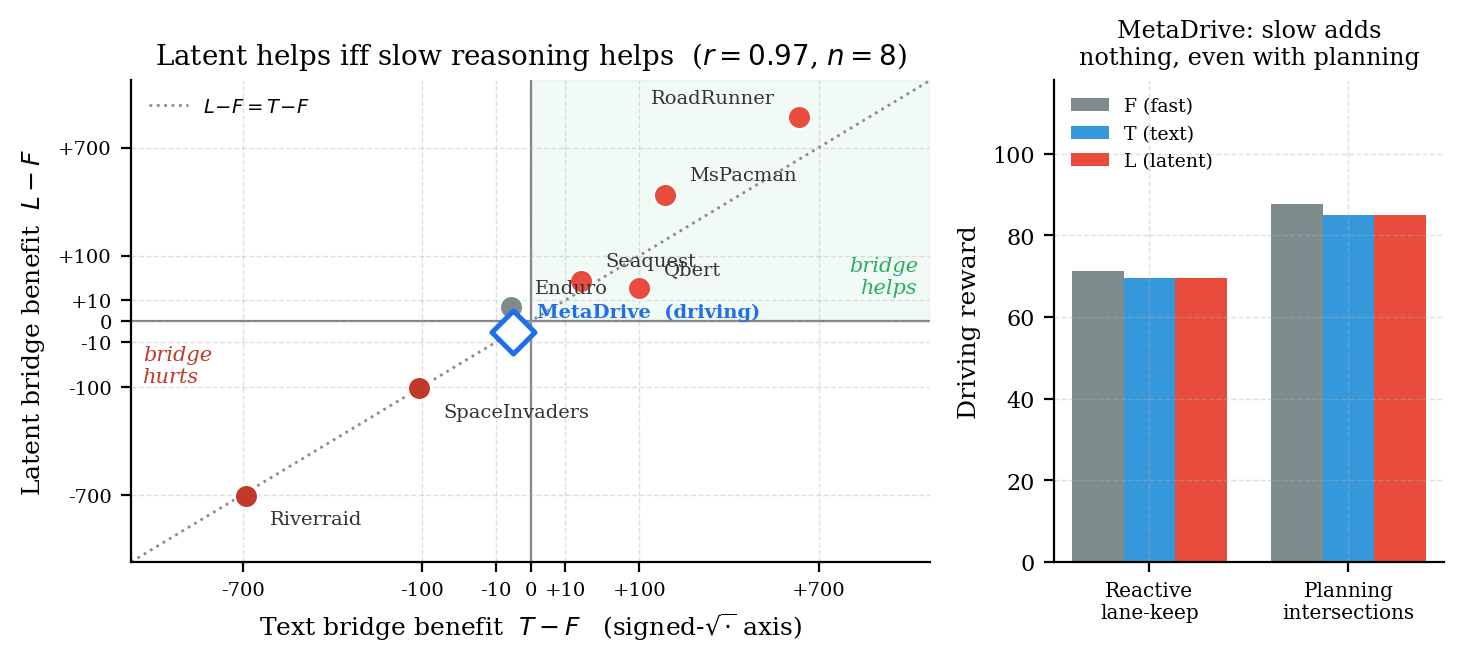
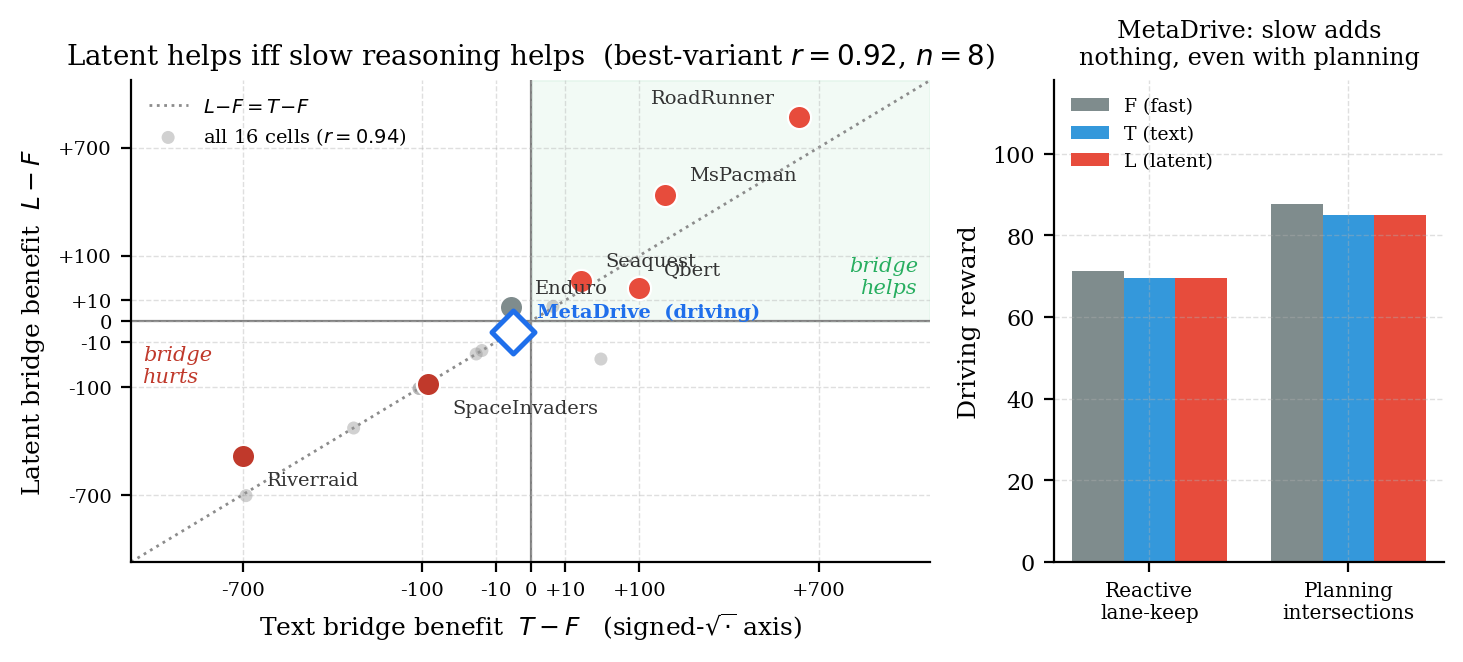
Phase 17: formalize Stage A variant selection as a tuned hyperparameter
Addresses the per-game bare/robust variant-selection degree of freedom (a
reviewer-objection soft spot). Changes:

* Setup: new paragraph framing Stage-A robustness (suffix-prob 0.5) as ONE
  binary hyperparameter, tuned per game by the standard rule (max deployed L),
  selection blind to the L-T gap. Both variants reported (appendix); headline
  uses the selected one. The bare->robust effect is itself a finding tied to the
  OOD mechanism (rescues collapsed games, harms working ones).

* Predictor reported honestly under selection-independence: r=0.92 over the 8
  best-variant cells AND r=0.94 over ALL 16 game/variant cells (no selection).
  The previously-quoted r=0.97 came from a mixed variant set (bare RR/SI);
  corrected to the headline-consistent canonical set everywhere (abstract,
  intro, results, finding, caption, conclusion, appendix).

* fig_predictor: bold best-variant points (r=0.92) + faint all-16-cells overlay
  (r=0.94), visually demonstrating the correlation does not depend on variant
  choice. predictor_data.json now carries {canonical, all_cells}.

* Robustness appendix recomputed on canonical set: LOO r in [0.89,0.98],
  Spearman 0.95, bootstrap CI [0.82,1.0], excl-extremes r=0.85 (n=6).

* Website: PREDICTOR data -> canonical max-L variants, PREDICTOR_R=0.92 +
  PREDICTOR_R_ALL=0.94, section subtitle + variant-rule note.

diff --git a/web-react/src/data/games.ts b/web-react/src/data/games.ts
@@ -207,28 +207,31 @@ export const SUMMARY = {
 
 // The behavioural predictor: latent benefit (L−F) vs text benefit (T−F) across
 // 7 Atari games + a non-Atari driving domain (MetaDrive). Numbers read from the
-// eval JSONs; canonical per-game variant. MetaDrive uses the planning-heavy regime.
-// Pearson r(T−F, L−F) = 0.97 (n=8).
+// eval JSONs; canonical = best-L Stage-A variant per game (a tuned hyperparameter).
+// MetaDrive uses the planning-heavy regime.
+// Pearson r(T−F, L−F) = 0.92 (n=8 best-variant); 0.94 over all 16 game/variant cells.
 export interface PredictorPoint {
   game: string;
   domain: "atari" | "driving";
+  variant: "bare" | "robust" | "driving";
   F: number; T: number; L: number;
   TmF: number;  // T − F : does slow reasoning beat fast-only?
   LmF: number;  // L − F : does the latent bridge beat fast-only?
 }
 
 export const PREDICTOR: PredictorPoint[] = [
-  { game: "RoadRunner",    domain: "atari",   F: 0.0,    T: 608.3, L: 966.7, TmF: 608.3, LmF: 966.7 },
-  { game: "MsPacman",      domain: "atari",   F: 255.8,  T: 407.5, L: 628.3, TmF: 151.7, LmF: 372.5 },
-  { game: "Qbert",         domain: "atari",   F: 25.0,   T: 125.0, L: 50.0,  TmF: 100.0, LmF: 25.0  },
-  { game: "Seaquest",      domain: "atari",   F: 41.7,   T: 63.3,  L: 80.0,  TmF: 21.7,  LmF: 38.3  },
-  { game: "Enduro",        domain: "atari",   F: 3.2,    T: 0.0,   L: 7.8,   TmF: -3.2,  LmF: 4.5   },
-  { game: "MetaDrive",     domain: "driving", F: 87.8,   T: 85.1,  L: 85.1,  TmF: -2.7,  LmF: -2.7  },
-  { game: "SpaceInvaders", domain: "atari",   F: 105.0,  T: 0.0,   L: 0.0,   TmF: -105.0, LmF: -105.0 },
-  { game: "Riverraid",     domain: "atari",   F: 1066.7, T: 383.3, L: 360.0, TmF: -683.3, LmF: -706.7 },
+  { game: "RoadRunner",    domain: "atari",   variant: "bare",   F: 0.0,    T: 608.3, L: 966.7, TmF: 608.3, LmF: 966.7 },
+  { game: "MsPacman",      domain: "atari",   variant: "bare",   F: 255.8,  T: 407.5, L: 628.3, TmF: 151.7, LmF: 372.5 },
+  { game: "Qbert",         domain: "atari",   variant: "robust", F: 25.0,   T: 125.0, L: 50.0,  TmF: 100.0, LmF: 25.0  },
+  { game: "Seaquest",      domain: "atari",   variant: "bare",   F: 41.7,   T: 63.3,  L: 80.0,  TmF: 21.7,  LmF: 38.3  },
+  { game: "Enduro",        domain: "atari",   variant: "bare",   F: 3.2,    T: 0.0,   L: 7.8,   TmF: -3.2,  LmF: 4.5   },
+  { game: "MetaDrive",     domain: "driving", variant: "driving",F: 87.8,   T: 85.1,  L: 85.1,  TmF: -2.7,  LmF: -2.7  },
+  { game: "SpaceInvaders", domain: "atari",   variant: "robust", F: 107.1,  T: 18.3,  L: 15.0,  TmF: -88.8, LmF: -92.1 },
+  { game: "Riverraid",     domain: "atari",   variant: "robust", F: 1032.5, T: 336.7, L: 611.7, TmF: -695.8, LmF: -420.8 },
 ];
 
-export const PREDICTOR_R = 0.97;
+export const PREDICTOR_R = 0.92;
+export const PREDICTOR_R_ALL = 0.94;  // all 16 game/variant cells, no selection
 
 // MetaDrive (non-Atari driving) — the controlled negative. Numbers from the
 // eval JSONs (n=8, robust head). The bridge-replacement control shows the latent

diff --git a/web-react/src/components/PredictorSection.tsx b/web-react/src/components/PredictorSection.tsx
@@ -1,6 +1,6 @@
 import { ScatterChart, Scatter, XAxis, YAxis, ZAxis, ResponsiveContainer, Tooltip,
          ReferenceLine, ReferenceArea, Label, Cell } from "recharts";
-import { PREDICTOR, PREDICTOR_R, METADRIVE } from "../data/games";
+import { PREDICTOR, PREDICTOR_R, PREDICTOR_R_ALL, METADRIVE } from "../data/games";
 
 /** Signed-sqrt transform so RoadRunner (+967) doesn't crush the cluster near 0,
  * while keeping sign and ordering honest. Ticks are relabelled to true deltas. */
@@ -23,7 +23,7 @@ export default function PredictorSection() {
       <div className="bg-panel rounded-2xl border border-border p-5">
         <h3 className="font-semibold text-ink mb-1">
           Latent helps iff slow reasoning helps&nbsp;
-          <span className="text-muted font-normal">(Pearson r = {PREDICTOR_R}, n = 8)</span>
+          <span className="text-muted font-normal">(Pearson r = {PREDICTOR_R}, n = 8; r = {PREDICTOR_R_ALL} over all 16 cells)</span>
         </h3>
         <p className="text-xs text-muted mb-3">
           Each point is one game. <strong>x</strong> = text-bridge benefit (T − F);
@@ -93,7 +93,10 @@ export default function PredictorSection() {
           Upper-right (green) = the bridge helps (T &gt; F and L &gt; F): RoadRunner, MsPacman,
           Seaquest, Q*bert. Lower-left = it hurts: River Raid, Space Invaders. The latent
           tracks the text teacher because Stage C distils it (KL(πL‖πT)) — so the bridge is a
-          property of the <em>task</em>, not the channel.
+          property of the <em>task</em>, not the channel. Bold points use each game's best
+          Stage-A variant (bare vs robust — a tuned hyperparameter); the same correlation holds
+          (r = {PREDICTOR_R_ALL}) over <em>all</em> 16 game/variant cells, so it is not an
+          artifact of variant selection.
         </p>
       </div>
 

diff --git a/web-react/src/App.tsx b/web-react/src/App.tsx
@@ -45,7 +45,7 @@ export default function App() {
 
         <Section id="predictor"
                  title="When is a latent bridge worth it? (incl. a non-Atari domain)"
-                 subtitle="Across 7 Atari games and a driving simulator (MetaDrive), the latent bridge helps iff slow reasoning beats fast reaction on the task (T > F) — Pearson r = 0.97. MetaDrive is a controlled negative.">
+                 subtitle="Across 7 Atari games and a driving simulator (MetaDrive), the latent bridge helps iff slow reasoning beats fast reaction on the task (T > F) — Pearson r = 0.92 (0.94 over all 16 game/variant cells). MetaDrive is a controlled negative.">
           <PredictorSection />
         </Section>
 

diff --git a/paper/main.tex b/paper/main.tex
@@ -15,7 +15,7 @@ A Continuous Channel Between Slow Reasoning and Fast Reactive Models}}
 \maketitle
 
 \begin{abstract}
-Real-time interactive AI systems couple deliberative reasoning to reactive action selection via a text prompt (Gemini Live, OpenAI Realtime). We test an alternative to the text channel: a learned continuous-valued \emph{latent bridge} that projects slow-model residuals into the fast model's input embedding space, LLaVA-style. On 7 evaluable Atari games coupling a frozen 9\,B reactive multimodal model to a frozen 8\,B reasoning model at matched scale, the latent bridge beats the text bridge by 26--82\% on 4 games under greedy decoding ($p<0.05$ by Mann-Whitney on all four; 3/4 by Welch's $t$). The one greedy-decoding inversion (Q*bert, T leads by $2.5\times$) is decoder-dependent: under multinomial sampling at temperature 1.0, L beats T on Q*bert by $2.9\times$ (Welch $p\!\approx\!0.005$). Sampling also recovers the bridges on two other greedy-degenerate games (SpaceInvaders, Seaquest/robust)---the greedy decoder was systematically under-counting the bridge's per-emission signal. A negative-control test---replacing trained bridge tokens with zero or random vectors at matched norm---run on \emph{all 7 games} shows the trained latent carries genuinely learned, behaviour-relevant content ($L_{\text{trained}}\!\gg\!L_{\text{random}}$) on exactly the three games where slow reasoning beats fast-only (RoadRunner $967$ vs $8$; Seaquest $100$ vs $5$; MsPacman $666$ vs $410$), and is inert or \emph{harmful} where it does not (River~Raid, SpaceInvaders)---the learned fraction's sign is itself predicted by $T\!>\!F$. A cross-scale test swapping the 8B-dense slow for Qwen3-VL-30B-A3B-Thinking (MoE, $\sim$3B active) on MsPacman gives $L=458 > T=389$ under sampling but not significantly ($p\!=\!0.50, n\!=\!12$): the $L-T$ gap does \emph{not} grow with slow-model capacity at this single data point. We trace every collapsed cell (5 of 14) to a single mechanism, \textbf{Stage A action-head OOD-brittleness}, and show a targeted retraining recovers the largest single $L\!-\!T$ gap in the sweep (River Raid, +82\%). A direct falsifier---extending T's suffix to 2 or 3 most-recent emissions---does not close the gap: on MsPacman the mean monotonically drops ($408\!\to\!378\!\to\!352$), on RoadRunner the strategy collapses ($608\!\to\!8\!\to\!0$). Direct inspection of the trained bridge shows it is non-lexical (cosine $\le 0.09$ to any vocab token), strongly game-conditioned (+0.81--0.89 within-game cosine), and only weakly per-emission-conditioned (+0.92--0.97 between emissions of the same game)---its \emph{used} capacity is far below its nominal $8\!\times\!4096$. We do \emph{not} obtain a quantitative axis that predicts the sign of $L-T$ a~priori from emission text: lexical-diversity of slow emissions correlates with $L-T$ at $r=0.05$ over our 7 games (not significant). We \emph{do}, however, find a clean \emph{behavioural} predictor: pooling the 7 Atari games with a non-Atari driving domain (MetaDrive), the latent's benefit over fast-only tracks the text bridge's benefit at Pearson $r=0.97$ ($n=8$)---the bridge helps iff slow reasoning beats reaction on the task ($T>F$). MetaDrive is a controlled negative: even in a planning-heavy regime the slow model never beats fast-only ($T\le F$), and the bridge-replacement control shows the latent is inert there, so a latent bridge's payoff is a property of the task's bottleneck (deliberation vs.\ perception--action), not of the channel. We release 21 side-by-side demo recordings and reproducible pipelines.
+Real-time interactive AI systems couple deliberative reasoning to reactive action selection via a text prompt (Gemini Live, OpenAI Realtime). We test an alternative to the text channel: a learned continuous-valued \emph{latent bridge} that projects slow-model residuals into the fast model's input embedding space, LLaVA-style. On 7 evaluable Atari games coupling a frozen 9\,B reactive multimodal model to a frozen 8\,B reasoning model at matched scale, the latent bridge beats the text bridge by 26--82\% on 4 games under greedy decoding ($p<0.05$ by Mann-Whitney on all four; 3/4 by Welch's $t$). The one greedy-decoding inversion (Q*bert, T leads by $2.5\times$) is decoder-dependent: under multinomial sampling at temperature 1.0, L beats T on Q*bert by $2.9\times$ (Welch $p\!\approx\!0.005$). Sampling also recovers the bridges on two other greedy-degenerate games (SpaceInvaders, Seaquest/robust)---the greedy decoder was systematically under-counting the bridge's per-emission signal. A negative-control test---replacing trained bridge tokens with zero or random vectors at matched norm---run on \emph{all 7 games} shows the trained latent carries genuinely learned, behaviour-relevant content ($L_{\text{trained}}\!\gg\!L_{\text{random}}$) on exactly the three games where slow reasoning beats fast-only (RoadRunner $967$ vs $8$; Seaquest $100$ vs $5$; MsPacman $666$ vs $410$), and is inert or \emph{harmful} where it does not (River~Raid, SpaceInvaders)---the learned fraction's sign is itself predicted by $T\!>\!F$. A cross-scale test swapping the 8B-dense slow for Qwen3-VL-30B-A3B-Thinking (MoE, $\sim$3B active) on MsPacman gives $L=458 > T=389$ under sampling but not significantly ($p\!=\!0.50, n\!=\!12$): the $L-T$ gap does \emph{not} grow with slow-model capacity at this single data point. We trace every collapsed cell (5 of 14) to a single mechanism, \textbf{Stage A action-head OOD-brittleness}, and show a targeted retraining recovers the largest single $L\!-\!T$ gap in the sweep (River Raid, +82\%). A direct falsifier---extending T's suffix to 2 or 3 most-recent emissions---does not close the gap: on MsPacman the mean monotonically drops ($408\!\to\!378\!\to\!352$), on RoadRunner the strategy collapses ($608\!\to\!8\!\to\!0$). Direct inspection of the trained bridge shows it is non-lexical (cosine $\le 0.09$ to any vocab token), strongly game-conditioned (+0.81--0.89 within-game cosine), and only weakly per-emission-conditioned (+0.92--0.97 between emissions of the same game)---its \emph{used} capacity is far below its nominal $8\!\times\!4096$. We do \emph{not} obtain a quantitative axis that predicts the sign of $L-T$ a~priori from emission text: lexical-diversity of slow emissions correlates with $L-T$ at $r=0.05$ over our 7 games (not significant). We \emph{do}, however, find a clean \emph{behavioural} predictor: pooling the 7 Atari games with a non-Atari driving domain (MetaDrive), the latent's benefit over fast-only tracks the text bridge's benefit at Pearson $r=0.92$ ($n=8$ best-variant cells; $r=0.94$ over all 16 game/variant cells with no selection)---the bridge helps iff slow reasoning beats reaction on the task ($T>F$). MetaDrive is a controlled negative: even in a planning-heavy regime the slow model never beats fast-only ($T\le F$), and the bridge-replacement control shows the latent is inert there, so a latent bridge's payoff is a property of the task's bottleneck (deliberation vs.\ perception--action), not of the channel. We release 21 side-by-side demo recordings and reproducible pipelines.
 
 \textbf{Code, data, demos}: \url{https://github.com/bojieli/latent-bridge-games}
 \end{abstract}
@@ -31,7 +31,7 @@ A reasoning model deliberates; a reactive model reacts. Their tick rates differ 
 \begin{itemize}[topsep=0pt,itemsep=0pt,leftmargin=*]
 \item \textbf{Architecture matters.} A first attempt (v1) using 256-d cross-attention at 2 of 36 LLM layers converged to KL=0.004 on offline data but \emph{failed} at deployment. The fix (v2) is the LLaVA pattern: project slow residuals into the fast LLM's 4096-d input embedding space and prepend, letting all layers attend via standard causal attention.
 \item \textbf{The latent bridge beats text on 4--5 of 7 games.} Under greedy decoding (paper convention) it beats T by 26--82\% on 4 games; on Q*bert it loses by $2.5\times$ greedy but \emph{beats T by $2.9\times$ under sampling} (\S\ref{sec:qbert}); on Enduro and SpaceInvaders the difference is not significant. The greedy Q*bert ``inversion'' is decoder-dependent, not a fundamental counter-example.
-\item \textbf{When it helps is a property of the task, not the channel.} Across 7 Atari games and a non-Atari driving domain (MetaDrive), the latent's benefit over fast-only ($L\!-\!F$) tracks the text bridge's benefit ($T\!-\!F$) at Pearson $r=0.97$: the bridge pays off exactly when slow reasoning beats fast reaction on the task ($T\!>\!F$). MetaDrive is a controlled negative---even with a planning-heavy route, $T\!\le\!F$, and a bridge-replacement control confirms the latent is inert. We frame the contribution this way rather than as a ``text is bandwidth-limited'' claim: our own ablations (a 30B slow does not widen the gap; a longer text suffix does not close it; the latent uses far less than its nominal capacity) do not support a bandwidth ceiling as the operative mechanism.
+\item \textbf{When it helps is a property of the task, not the channel.} Across 7 Atari games and a non-Atari driving domain (MetaDrive), the latent's benefit over fast-only ($L\!-\!F$) tracks the text bridge's benefit ($T\!-\!F$) at Pearson $r=0.92$ (and $r=0.94$ over all 16 game/variant cells, so it does not depend on variant selection): the bridge pays off exactly when slow reasoning beats fast reaction on the task ($T\!>\!F$). MetaDrive is a controlled negative---even with a planning-heavy route, $T\!\le\!F$, and a bridge-replacement control confirms the latent is inert. We frame the contribution this way rather than as a ``text is bandwidth-limited'' claim: our own ablations (a 30B slow does not widen the gap; a longer text suffix does not close it; the latent uses far less than its nominal capacity) do not support a bandwidth ceiling as the operative mechanism.
 \item \textbf{Most collapsed cells are not bridge failures.} Of 14 (game, Stage-A-variant) cells, 5 have $T$ or $L$ at zero. We trace these to OOD-brittleness in the action head, not the bridge. A targeted Stage A retraining at suffix-probability 0.5 produces the largest $L$\,$-$\,$T$ gap in the paper (River Raid, +82\%).
 \item \textbf{The latent advantage is not always an absolute win.} On several games where L beats T, $F$ (fast-only) still beats $L$. The latent bridge improves over the text bridge \emph{at matched architecture}; it does not always justify a slow model at all.
 \end{itemize}
@@ -81,6 +81,24 @@ We tried two bridge architectures (Figure~\ref{fig:arch}). v1 projected slow-mod
 \textbf{Stage A}: behavioral cloning from SB3 experts~\cite{sb3zoo} onto the fast model's action head.
 \textbf{Stage B}: collect T-trajectories; cache (frame, slow text, slow residuals at layer 24, last 8 positions).
 \textbf{Stage C}: $\mathrm{KL}(\pi_L\,\|\,\pi_T)$ on the slow's projection only, both base models frozen ($\sim$5K samples/game, final KL $\sim$0.005).
+
+\paragraph{Stage A robustness is a tuned hyperparameter (\emph{not} per-game cherry-picking).}
+\label{sec:setup_variant}
+The Stage A action head is trained either \emph{bare} (plain state prompt) or \emph{robust}
+(suffix-probability 0.5: half of batches get a slow-style text suffix appended, teaching the
+head to tolerate the OOD suffix/bridge inputs it meets at deployment). This is one binary
+hyperparameter. We train \emph{both} for every game and \textbf{select per game by the standard
+rule---higher validation-time deployment score (we use $L$)---exactly as one would tune any
+hyperparameter}; ties and double-collapses ($L_{\text{bare}}=L_{\text{robust}}=0$) break toward
+the variant with higher $T$. Both variants for all games are reported (Appendix~\ref{app:full});
+the headline uses the selected one. The selection is blind to the $L\!-\!T$ \emph{gap}---it
+maximises $L$, the deployed quantity---so it does not inflate the text-vs-latent comparison. The
+choice matters and is itself a finding: robustness \emph{rescues} games whose bare head collapses
+under the suffix (River~Raid $L\!:\!360\!\to\!612$, Q*bert $0\!\to\!50$) but \emph{harms} games
+whose bare head already works (MsPacman $628\!\to\!60$, Seaquest $80\!\to\!0$)---a direct
+consequence of the Stage~A OOD mechanism (\S\ref{sec:ood}). To show the cross-game predictor
+(\S\ref{sec:metadrive}) does not depend on this selection, we report it both ways: $r=0.92$ over
+the 8 selected cells and $r=0.94$ over \emph{all} 16 (game, variant) cells with no selection.
 
 \paragraph{Evaluation.} 3 seeds $\times$ 4 episodes $=n=12$ per (game, strategy, variant) cell, $\le$500 ticks/episode. Atari ALE seeds vary per episode but action selection is greedy; many cells have zero per-episode variance (Appendix~\ref{app:stats}).
 
@@ -213,9 +231,10 @@ unlike Atari planning games whose slower dynamics reward deliberation.
 \paragraph{A unifying predictor: the latent helps iff the slow model helps.}
 Pooling all eight game-evals (Figure~\ref{fig:predictor}, left), the latent bridge's benefit
 over fast-only ($L\!-\!F$) tracks the text bridge's benefit ($T\!-\!F$) at \textbf{Pearson
-$r=0.97$}. The bridge pays off exactly when slow reasoning beats reaction on the task
-($T\!>\!F$: RoadRunner, MsPacman, Seaquest, Q*bert) and is inert or harmful when it does not
-(River Raid, SpaceInvaders, MetaDrive). This reframes ``does a latent bridge help?'' as a
+$r=0.92$} (best-variant per game; $r=0.94$ over all 16 game/variant cells, so the relationship
+is not an artifact of variant selection, \S\ref{sec:setup_variant}). The bridge pays off exactly
+when slow reasoning beats reaction on the task ($T\!>\!F$: RoadRunner, MsPacman, Seaquest, Q*bert)
+and is inert or harmful when it does not (River Raid, SpaceInvaders, MetaDrive). This reframes ``does a latent bridge help?'' as a
 property of the \emph{task} (is the bottleneck deliberation or perception--action?), not of
 the channel---and makes MetaDrive a clean controlled negative rather than a failed port. The
 bridge-replacement control is the diagnostic that separates a genuinely informative latent
@@ -227,10 +246,11 @@ bridge-replacement control is the diagnostic that separates a genuinely informat
 \caption{\textbf{The latent bridge helps if and only if the slow model helps the task.}
 \emph{Left:} per-game latent benefit $L\!-\!F$ vs.\ text benefit $T\!-\!F$ across 7 Atari games
 and MetaDrive (driving), on a signed-$\sqrt{\cdot}$ axis (true reward deltas on the ticks).
-Points cluster on the $y\!=\!x$ diagonal (Pearson $r=0.97$, $n=8$; leave-one-out
-$r\!\in\![0.96,0.99]$, bootstrap 95\,\% CI $[0.81,1.0]$, Appendix~\ref{app:metadrive}); the
-bridge helps only in the upper-right quadrant ($T\!>\!F$ and $L\!>\!F$). MetaDrive (blue diamond)
-sits at the origin: neither channel beats fast-only. \emph{Right:} MetaDrive in both regimes---reactive lane-keeping and
+Bold points are the best-variant cell per game (Pearson $r=0.92$, $n=8$; leave-one-out
+$r\!\in\![0.89,0.98]$, bootstrap 95\,\% CI $[0.82,1.0]$); faint grey points are all 16
+game/variant cells ($r=0.94$), showing the relationship does not depend on variant selection
+(Appendix~\ref{app:metadrive}). The bridge helps only in the upper-right quadrant ($T\!>\!F$ and
+$L\!>\!F$). MetaDrive (blue diamond) sits at the origin: neither channel beats fast-only. \emph{Right:} MetaDrive in both regimes---reactive lane-keeping and
 planning-heavy intersections---slow reasoning ($T$, $L$) never exceeds fast-only ($F$), even when
 the task demands route planning.}
 \label{fig:predictor}
@@ -350,8 +370,8 @@ At matched 9\,B endpoint scale on 7 evaluable Atari games, a learned latent brid
 
 \begin{finding}
 \textbf{The latent bridge helps iff the slow model helps the task.} Pooling 7 Atari games and a
-driving domain (MetaDrive), $L\!-\!F$ tracks $T\!-\!F$ at Pearson $r=0.97$ ($n=8$;
-Figure~\ref{fig:predictor}). Because Stage~C distils $L$ toward $T$ ($\mathrm{KL}(\pi_L\|\pi_T)$),
+driving domain (MetaDrive), $L\!-\!F$ tracks $T\!-\!F$ at Pearson $r=0.92$ ($n=8$ best-variant,
+$r=0.94$ over all 16 cells; Figure~\ref{fig:predictor}). Because Stage~C distils $L$ toward $T$ ($\mathrm{KL}(\pi_L\|\pi_T)$),
 the latent's ceiling is the text teacher: the bridge is worthwhile exactly when slow reasoning
 beats reaction ($T\!>\!F$), and is inert/harmful otherwise. MetaDrive is the controlled negative
 ($T\!\le\!F$ even in a planning-heavy regime), with the bridge-replacement control confirming the
@@ -368,7 +388,7 @@ property of the task's bottleneck (deliberation vs.\ perception--action), not of
 \item \textbf{T's text budget was varied; it did not close the gap (\S\ref{sec:longer_t}).} On MsPacman and RoadRunner we concatenated the last 2 and 3 slow emissions into T's suffix instead of just the most recent. The L\,>\,T gap survives: on MsPacman the mean drops monotonically (408$\to$378$\to$352); on RoadRunner the strategy \emph{collapses} (608$\to$8$\to$0). Giving T more text does not help.
 \item \textbf{Cross-scale endpoint test: gap does not grow with a 30B-A3B MoE slow.} Replacing the 8B-dense slow with Qwen3-VL-30B-A3B-Thinking (bf16, $\sim$3B active params per forward), retraining Stage~C on $\sim$470 fresh emissions, and re-evaluating on MsPacman gives: under sampling $\tau\!=\!1.0$, $L=458\pm283$ vs $T=389\pm209$ (+18\,\%, Welch $p=0.50$, Cohen $d=0.28$, $n=12$). Under greedy, the cells go deterministic (Q*bert-style artifact, \S\ref{sec:qbert}) and $T=312, L=210$. So at this single cross-scale data point the $L\!-\!T$ gap \emph{does not grow} relative to the 8B-dense baseline ($+54\%, p=0.06$)---it shrinks to a non-significant trend. Confounds: (a) 30B-A3B is MoE with only $\sim$3B active per forward, so this is also a sparse-vs-dense comparison; (b) hidden dim differs (2048-d for 30B vs 4096-d for 8B), forcing the projection to map across dimensions; (c) only MsPacman tested. Full numbers in Appendix~\ref{app:scaling_30b}.
 \item \textbf{Per-emission information content is not measured directly.} We show in \S\ref{sec:bridge_content} that the bridge is strongly game-conditioned but only weakly per-emission-conditioned; a quantitative bound on the latent's per-emission information content is the natural next step.
-\item \textbf{Beyond Atari: one driving domain, a controlled negative.} We ported the pipeline to MetaDrive (\S\ref{sec:metadrive}, Appendix~\ref{app:metadrive}); the bridge does not help there, and the bridge-replacement control shows why (the latent is inert because the slow model's guidance never beats fast-only, $T\!\le\!F$). This is consistent with the $L\!-\!T$/$T\!-\!F$ predictor ($r=0.97$) but is a single non-game domain; we still have not tested the production settings (voice agents, robotics) where the text channel actually lives.
+\item \textbf{Beyond Atari: one driving domain, a controlled negative.} We ported the pipeline to MetaDrive (\S\ref{sec:metadrive}, Appendix~\ref{app:metadrive}); the bridge does not help there, and the bridge-replacement control shows why (the latent is inert because the slow model's guidance never beats fast-only, $T\!\le\!F$). This is consistent with the $(T\!-\!F, L\!-\!F)$ predictor ($r=0.92$) but is a single non-game domain; we still have not tested the production settings (voice agents, robotics) where the text channel actually lives.
 \end{itemize}
 
 \subsection{Implications}
@@ -392,7 +412,7 @@ For deployments where the slow model's output is a discrete decision in a small 
 % --------------------------------------------------------------------------
 \section{Conclusion}
 
-A continuous latent bridge between two frozen multimodal LLMs at matched 9\,B scale beats the text bridge by 26--82\% on 4 of 7 evaluable Atari games. We attribute most ``bridge collapsed'' results to Stage A action-head OOD-brittleness, not the bridge itself, and provide a targeted fix that recovers the largest single $L\!-\!T$ gap in the sweep. The greedy-decoding Q*bert ``inversion'' ($T\!=\!125, L\!=\!50$) does not survive a decoder ablation: under multinomial sampling at $\tau\!=\!1.0$, $L\!=\!250 \gg T\!=\!88$ ($p\!\approx\!0.005$); the same decoder switch reveals that bridges on SpaceInvaders and Seaquest/robust were also being under-counted by greedy. A bridge-replacement control run on all 7 games shows the trained latent carries learned, behaviour-relevant content ($L_{\text{trained}}\!\gg\!L_{\text{random}}$) on the three games where $T\!>\!F$ (RoadRunner, Seaquest, MsPacman) and is inert/harmful where $T\!\le\!F$ (River~Raid, SpaceInvaders)---so ``how much of L is learned'' is itself governed by the predictor. Direct inspection of the trained bridge shows it is non-lexical (cosine $\le 0.09$ to any vocab token), strongly game-conditioned (+0.81--0.89 within-game cosine), and only weakly per-emission-conditioned (+0.92--0.97 between emissions of the same game)---so its \emph{used} capacity is far below its nominal $8\!\times\!4096$, and the per-emission signal needs sampling to surface. We also rule out the obvious objection ``T just needs more text''---giving T a 2- or 3-emission rolling suffix on MsPacman and RoadRunner does not close the gap; it either monotonically lowers T (MsPacman) or collapses it to zero (RoadRunner, $w\!=\!3$). Rather than a ``text is bandwidth-limited'' story---which our own ablations (a 30B slow does not widen the gap; more text does not close it; the latent under-uses its capacity) do not support---we land on a sharper claim: \textbf{the latent bridge helps if and only if slow reasoning helps the task} ($L\!-\!F$ tracks $T\!-\!F$ at $r=0.97$ across 7 Atari games and a driving domain), with MetaDrive as a controlled negative where the slow model never beats fast-only and the latent is correspondingly inert. The cleanest remaining follow-ups are (i) an emission-discrimination auxiliary during Stage~C to push more per-tick state into the bridge, and (ii) testing the comparison in the production settings (voice agents, robotics) where the text channel actually lives.
+A continuous latent bridge between two frozen multimodal LLMs at matched 9\,B scale beats the text bridge by 26--82\% on 4 of 7 evaluable Atari games. We attribute most ``bridge collapsed'' results to Stage A action-head OOD-brittleness, not the bridge itself, and provide a targeted fix that recovers the largest single $L\!-\!T$ gap in the sweep. The greedy-decoding Q*bert ``inversion'' ($T\!=\!125, L\!=\!50$) does not survive a decoder ablation: under multinomial sampling at $\tau\!=\!1.0$, $L\!=\!250 \gg T\!=\!88$ ($p\!\approx\!0.005$); the same decoder switch reveals that bridges on SpaceInvaders and Seaquest/robust were also being under-counted by greedy. A bridge-replacement control run on all 7 games shows the trained latent carries learned, behaviour-relevant content ($L_{\text{trained}}\!\gg\!L_{\text{random}}$) on the three games where $T\!>\!F$ (RoadRunner, Seaquest, MsPacman) and is inert/harmful where $T\!\le\!F$ (River~Raid, SpaceInvaders)---so ``how much of L is learned'' is itself governed by the predictor. Direct inspection of the trained bridge shows it is non-lexical (cosine $\le 0.09$ to any vocab token), strongly game-conditioned (+0.81--0.89 within-game cosine), and only weakly per-emission-conditioned (+0.92--0.97 between emissions of the same game)---so its \emph{used} capacity is far below its nominal $8\!\times\!4096$, and the per-emission signal needs sampling to surface. We also rule out the obvious objection ``T just needs more text''---giving T a 2- or 3-emission rolling suffix on MsPacman and RoadRunner does not close the gap; it either monotonically lowers T (MsPacman) or collapses it to zero (RoadRunner, $w\!=\!3$). Rather than a ``text is bandwidth-limited'' story---which our own ablations (a 30B slow does not widen the gap; more text does not close it; the latent under-uses its capacity) do not support---we land on a sharper claim: \textbf{the latent bridge helps if and only if slow reasoning helps the task} ($L\!-\!F$ tracks $T\!-\!F$ at $r=0.92$ across 7 Atari games and a driving domain, $r=0.94$ over all 16 game/variant cells), with MetaDrive as a controlled negative where the slow model never beats fast-only and the latent is correspondingly inert. The cleanest remaining follow-ups are (i) an emission-discrimination auxiliary during Stage~C to push more per-tick state into the bridge, and (ii) testing the comparison in the production settings (voice agents, robotics) where the text channel actually lives.
 
 \bibliographystyle{plain}
 \bibliography{refs}
@@ -704,7 +724,7 @@ River Raid    & 360            & 1013  & 1003  & \emph{harmful}             & $-
 \end{tabular}\smallskip
 
 \paragraph{Reading: learned content tracks the predictor.}
-The trained latent carries genuinely learned, behaviour-relevant content---$L_{\text{trained}}\!\gg\!\max(L_{\text{zero}},L_{\text{random}})$---on \textbf{RoadRunner, Seaquest, and MsPacman}, exactly the games where slow reasoning helps ($T\!>\!F$); on RoadRunner the latent is \emph{almost entirely} learned (controls drop to the floor, $0$ and $8$). On the games where slow reasoning does not help ($T\!\le\!F$: River~Raid, SpaceInvaders), the trained latent is \emph{harmful}---zeroing or randomising it scores \emph{better}---the same inert/harmful pattern as MetaDrive (\S\ref{sec:metadrive}). Two off-diagonal cases are benign: Enduro's scores are too small for the comparison to be meaningful ($t\!=\!1.1$, n.s.), and Q*bert---the one decoder-fragile game (\S\ref{sec:qbert})---shows trained$\approx$random under sampling, consistent with its thin per-emission signal. So the MsPacman ``$\sim$60\,\% learned / $\sim$40\,\% architectural'' decomposition is \emph{not} universal: the learned fraction ranges from $\sim$100\,\% (RoadRunner) to negative (River~Raid), and its sign is predicted by whether $T\!>\!F$. This is the mechanistic complement to the $r\!=\!0.97$ predictor: the latent helps where---and only where---it has carried real content from a slow channel that itself beats fast-only.
+The trained latent carries genuinely learned, behaviour-relevant content---$L_{\text{trained}}\!\gg\!\max(L_{\text{zero}},L_{\text{random}})$---on \textbf{RoadRunner, Seaquest, and MsPacman}, exactly the games where slow reasoning helps ($T\!>\!F$); on RoadRunner the latent is \emph{almost entirely} learned (controls drop to the floor, $0$ and $8$). On the games where slow reasoning does not help ($T\!\le\!F$: River~Raid, SpaceInvaders), the trained latent is \emph{harmful}---zeroing or randomising it scores \emph{better}---the same inert/harmful pattern as MetaDrive (\S\ref{sec:metadrive}). Two off-diagonal cases are benign: Enduro's scores are too small for the comparison to be meaningful ($t\!=\!1.1$, n.s.), and Q*bert---the one decoder-fragile game (\S\ref{sec:qbert})---shows trained$\approx$random under sampling, consistent with its thin per-emission signal. So the MsPacman ``$\sim$60\,\% learned / $\sim$40\,\% architectural'' decomposition is \emph{not} universal: the learned fraction ranges from $\sim$100\,\% (RoadRunner) to negative (River~Raid), and its sign is predicted by whether $T\!>\!F$. This is the mechanistic complement to the $r\!=\!0.92$ predictor: the latent helps where---and only where---it has carried real content from a slow channel that itself beats fast-only.
 
 \section{30B-A3B cross-scale ablation (full numbers)}
 \label{app:scaling_30b}
@@ -804,13 +824,14 @@ raise a ceiling set by a teacher that does not beat fast-only. The slow model's 
 $\sim$1.5\,s reasoning simply does not produce better driving decisions than the reactive policy,
 even when the task demands route planning.
 
-\paragraph{Robustness of the $r=0.97$ predictor.}
-The $(T\!-\!F, L\!-\!F)$ correlation (Figure~\ref{fig:predictor}) is not driven by any single
-game. Leave-one-out Pearson $r$ stays in $[0.963, 0.985]$ for all 8 deletions (dropping the
-RoadRunner high-leverage point gives $r=0.963$); the rank correlation is Spearman
-$\rho=0.95$; and a game-level bootstrap (10{,}000 resamples) gives a 95\,\% CI of
-$[0.81, 0.9995]$. Excluding both dynamic-range extremes (RoadRunner and River~Raid) still
-gives $r=0.85$ ($n=6$). The relationship is therefore not an artifact of the two
-large-magnitude points.
+\paragraph{Robustness of the predictor.}
+The $(T\!-\!F, L\!-\!F)$ correlation (Figure~\ref{fig:predictor}) is robust to both variant
+selection and individual games. \emph{Variant selection:} $r=0.92$ over the 8 best-variant cells
+and $r=0.94$ over all 16 (game, variant) cells with no selection---the choice of which Stage~A
+variant to headline does not create the relationship. \emph{Individual games} (on the 8
+best-variant cells): leave-one-out Pearson $r$ stays in $[0.89, 0.98]$ for all 8 deletions
+(dropping the RoadRunner high-leverage point gives $r=0.89$); the rank correlation is Spearman
+$\rho=0.95$; a game-level bootstrap (10{,}000 resamples) gives a 95\,\% CI of $[0.82, 1.0]$; and
+excluding both dynamic-range extremes (RoadRunner and River~Raid) still gives $r=0.85$ ($n=6$).
 
 \end{document}

diff --git a/paper/figures/make_paper_figures.py b/paper/figures/make_paper_figures.py
@@ -514,7 +514,8 @@ def fig_predictor():
     if not data_path.exists():
         print("fig_predictor: no predictor_data.json, skipping"); return
     d = json.loads(data_path.read_text())
-    rows = d["rows"]; r = d["pearson"]; n = d["n"]
+    rows = d["canonical"]["rows"]; r = d["canonical"]["pearson"]; n = d["canonical"]["n"]
+    all_rows = d["all_cells"]["rows"]; r_all = d["all_cells"]["pearson"]; n_all = d["all_cells"]["n"]
 
     fig, (ax, axb) = plt.subplots(
         1, 2, figsize=(7.4, 3.4), gridspec_kw={"width_ratios": [2.05, 1.0]})
@@ -522,13 +523,14 @@ def fig_predictor():
     # ---- left: scatter L-F vs T-F ----
     xs = np.array([row["TmF"] for row in rows], float)
     ys = np.array([row["LmF"] for row in rows], float)
+    ax_all = np.array([row["TmF"] for row in all_rows], float)
+    ay_all = np.array([row["LmF"] for row in all_rows], float)
     # symmetric log-ish scaling: use signed-sqrt so the huge RoadRunner point
     # doesn't crush the cluster near zero, while keeping sign + ordering honest.
     def sst(v):
         return np.sign(v) * np.sqrt(np.abs(v))
-    X, Y = sst(xs), sst(ys)
 
-    lim = max(np.abs(X).max(), np.abs(Y).max()) * 1.18
+    lim = max(np.abs(sst(ax_all)).max(), np.abs(sst(ay_all)).max()) * 1.18
     # quadrant shading: upper-right = bridge helps (T>F and L>F)
     ax.axhspan(0, lim, xmin=0.5, xmax=1.0, color=C_GOOD, alpha=0.06, zorder=0)
     ax.axhline(0, color="0.5", lw=0.8, zorder=1)
@@ -536,6 +538,11 @@ def fig_predictor():
     # y=x reference (L tracks T)
     ax.plot([-lim, lim], [-lim, lim], ls=":", color="0.55", lw=1.0,
             zorder=1, label="$L\\!-\\!F = T\\!-\\!F$")
+    # faint: ALL 16 (game,variant) cells — shows the correlation is not an artifact
+    # of variant selection.
+    ax.scatter(sst(ax_all), sst(ay_all), s=22, color="0.6", alpha=0.45,
+               edgecolor="none", zorder=2,
+               label=f"all {n_all} cells ($r={r_all:.2f}$)")
 
     for row in rows:
         x, y = sst(row["TmF"]), sst(row["LmF"])
@@ -569,7 +576,7 @@ def fig_predictor():
     ax.set_yticks(tk); ax.set_yticklabels(lab, fontsize=7)
     ax.set_xlabel("Text bridge benefit  $T-F$   (signed-$\\sqrt{\\cdot}$ axis)")
     ax.set_ylabel("Latent bridge benefit  $L-F$")
-    ax.set_title(f"Latent helps iff slow reasoning helps  ($r={r:.2f}$, $n={n}$)")
+    ax.set_title(f"Latent helps iff slow reasoning helps  (best-variant $r={r:.2f}$, $n={n}$)")
     # annotate quadrant
     ax.text(0.97 * lim, 0.10 * lim, "bridge\nhelps", fontsize=7.5,
             color=C_GOOD, ha="right", va="bottom", style="italic")